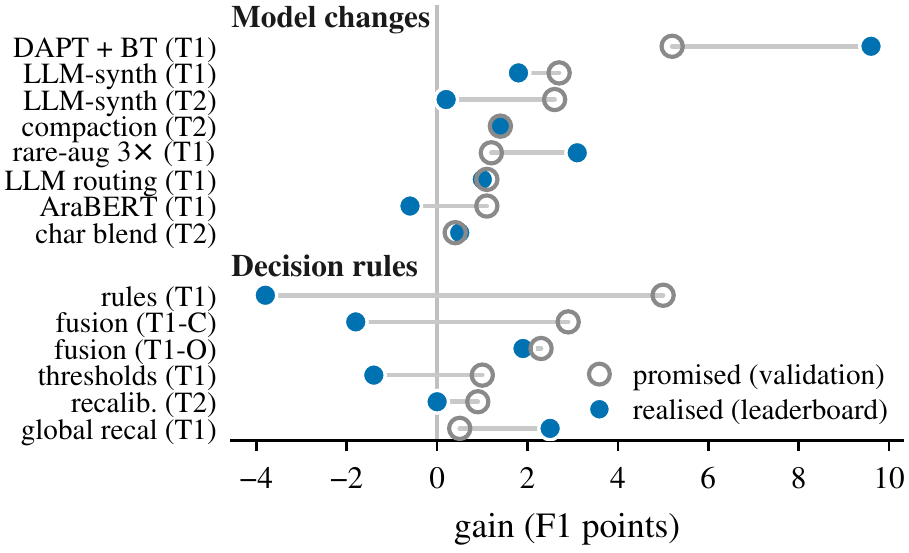
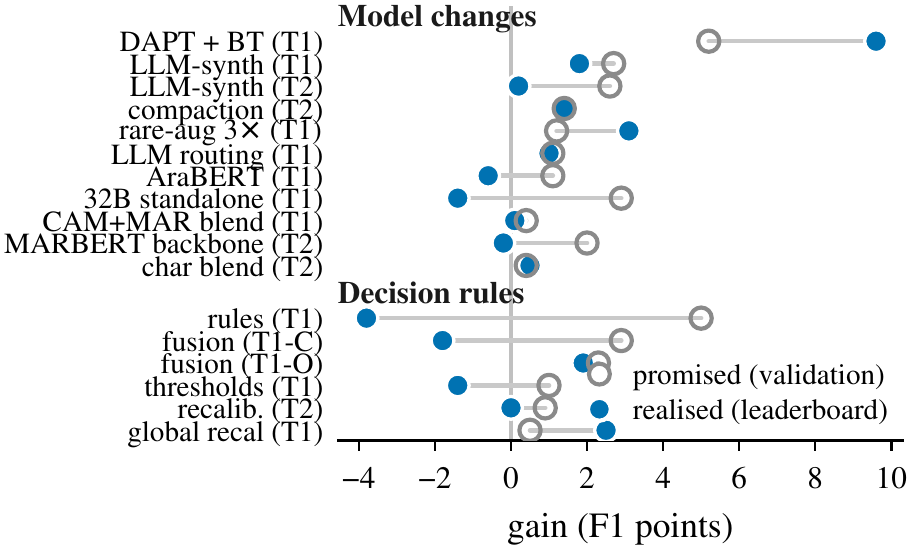
Extend transfer table to 17 interventions

diff --git a/paper_analysis/transfer_plot.py b/paper_analysis/transfer_plot.py
@@ -24,6 +24,9 @@ model = [
     ("rare-aug 3$\\times$ (T1)", 1.2,  3.1),
     ("LLM routing (T1)", 1.1,  1.0),
     ("AraBERT (T1)",     1.1, -0.6),
+    ("32B standalone (T1)", 2.9, -1.4),
+    ("CAM+MAR blend (T1)", 0.4,  0.1),
+    ("MARBERT backbone (T2)", 2.0, -0.2),
     ("char blend (T2)",  0.4,  0.5),
 ]
 decision = [

diff --git a/paper_analysis/threshold_transfer.py b/paper_analysis/threshold_transfer.py
@@ -40,7 +40,7 @@ def tune(idx):
 
 
 print(f"{'tune n':>8}{'in-sample':>12}{'held-out':>11}{'held-out<=0':>13}")
-for frac in (0.25, 0.5):
+for frac in (0.25, 0.5, 0.75, 0.9):
     promised, delivered = [], []
     for _ in range(REPEATS):
         perm = RNG.permutation(len(P))
